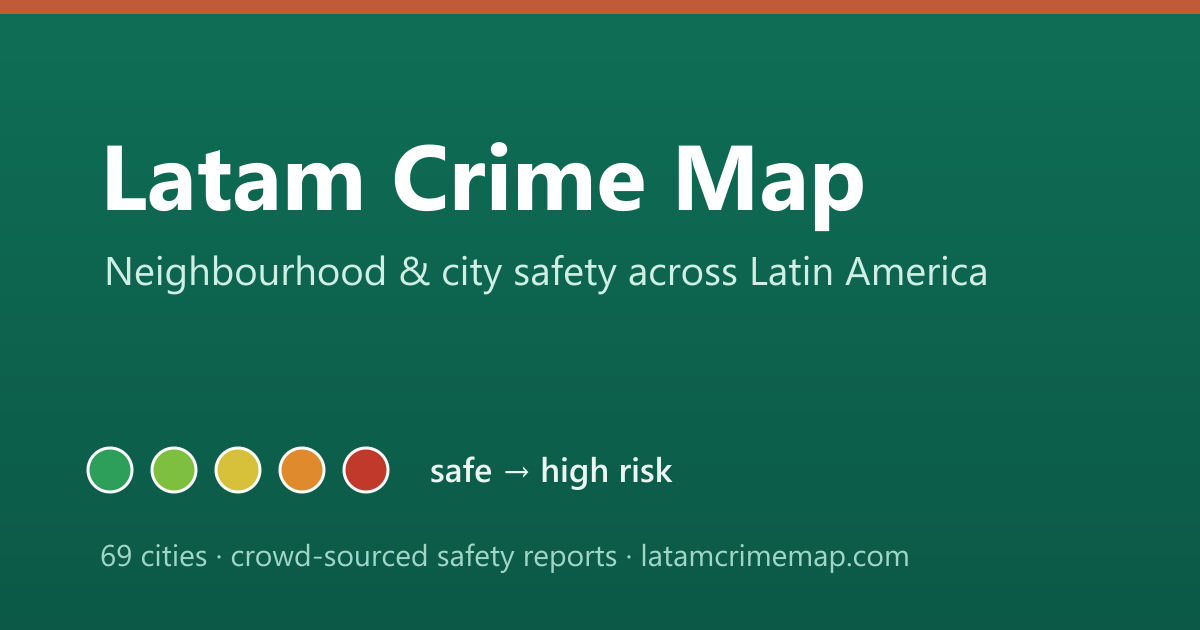
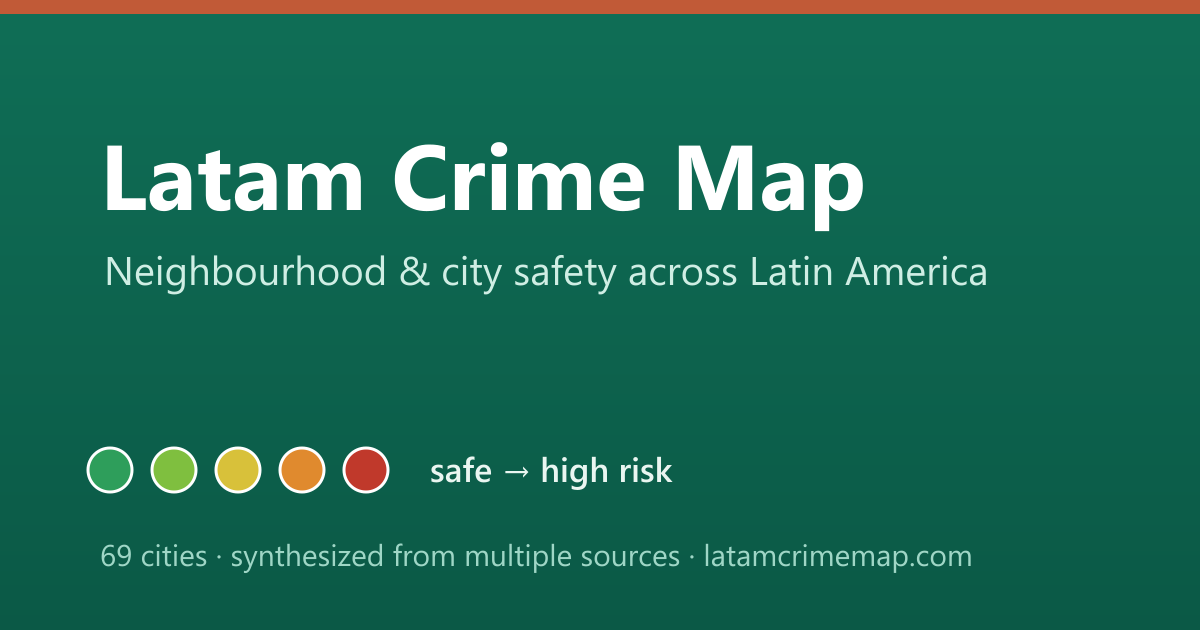
Share preview: "synthesized from multiple sources" instead of "crowd-sourced reports"
The crowd layer isn't live yet, so don't claim it. Reframe the OG/Twitter descriptions and the generic
share image to reflect what the map actually is — an editorial synthesis of multiple safety sources.

Changed region(s): [[0.185, 0.8746, 0.8017, 0.9048]]

diff --git a/404.html b/404.html
@@ -3,18 +3,18 @@
 <meta charset="utf-8"/><meta name="viewport" content="width=device-width, initial-scale=1"/>
 <meta name="darkreader-lock"/><meta name="color-scheme" content="dark"/>
 <title>Latam Crime Map</title>
-<meta name="description" content="Neighbourhood and city safety across Latin America — 69 cities on a green-to-red scale, with crowd-sourced reports."/>
+<meta name="description" content="Neighbourhood and city safety across Latin America — 69 cities on a green-to-red scale, synthesized from multiple safety sources."/>
 <link rel="canonical" href="https://latamcrimemap.com/"/>
 <meta property="og:type" content="website"/>
 <meta property="og:site_name" content="Latam Crime Map"/>
 <meta property="og:title" content="Latam Crime Map"/>
-<meta property="og:description" content="Neighbourhood and city safety across Latin America — 69 cities on a green-to-red scale, with crowd-sourced reports."/>
+<meta property="og:description" content="Neighbourhood and city safety across Latin America — 69 cities on a green-to-red scale, synthesized from multiple safety sources."/>
 <meta property="og:url" content="https://latamcrimemap.com/"/>
 <meta property="og:image" content="https://latamcrimemap.com/og-image.png"/>
 <meta property="og:image:width" content="1200"/><meta property="og:image:height" content="630"/>
 <meta name="twitter:card" content="summary_large_image"/>
 <meta name="twitter:title" content="Latam Crime Map"/>
-<meta name="twitter:description" content="Neighbourhood and city safety across Latin America — 69 cities on a green-to-red scale, with crowd-sourced reports."/>
+<meta name="twitter:description" content="Neighbourhood and city safety across Latin America — 69 cities on a green-to-red scale, synthesized from multiple safety sources."/>
 <meta name="twitter:image" content="https://latamcrimemap.com/og-image.png"/>
 <link rel="stylesheet" href="https://cdnjs.cloudflare.com/ajax/libs/leaflet/1.9.4/leaflet.min.css"/>
 <script src="https://cdnjs.cloudflare.com/ajax/libs/leaflet/1.9.4/leaflet.min.js"></script>

diff --git a/belohorizonte.html b/belohorizonte.html
@@ -3,18 +3,18 @@
 <meta charset="utf-8"/><meta name="viewport" content="width=device-width, initial-scale=1"/>
 <meta name="darkreader-lock"/><meta name="color-scheme" content="dark"/>
 <title>Belo Horizonte — Latam Crime Map</title>
-<meta name="description" content="Belo Horizonte: neighbourhood safety on a green-to-red scale, with crowd-sourced reports — Latam Crime Map."/>
+<meta name="description" content="Belo Horizonte: neighbourhood safety on a green-to-red scale, synthesized from multiple safety sources — Latam Crime Map."/>
 <link rel="canonical" href="https://latamcrimemap.com/belohorizonte"/>
 <meta property="og:type" content="website"/>
 <meta property="og:site_name" content="Latam Crime Map"/>
 <meta property="og:title" content="Belo Horizonte — Latam Crime Map"/>
-<meta property="og:description" content="Belo Horizonte: neighbourhood safety on a green-to-red scale, with crowd-sourced reports — Latam Crime Map."/>
+<meta property="og:description" content="Belo Horizonte: neighbourhood safety on a green-to-red scale, synthesized from multiple safety sources — Latam Crime Map."/>
 <meta property="og:url" content="https://latamcrimemap.com/belohorizonte"/>
 <meta property="og:image" content="https://latamcrimemap.com/share/belohorizonte.png"/>
 <meta property="og:image:width" content="1200"/><meta property="og:image:height" content="630"/>
 <meta name="twitter:card" content="summary_large_image"/>
 <meta name="twitter:title" content="Belo Horizonte — Latam Crime Map"/>
-<meta name="twitter:description" content="Belo Horizonte: neighbourhood safety on a green-to-red scale, with crowd-sourced reports — Latam Crime Map."/>
+<meta name="twitter:description" content="Belo Horizonte: neighbourhood safety on a green-to-red scale, synthesized from multiple safety sources — Latam Crime Map."/>
 <meta name="twitter:image" content="https://latamcrimemap.com/share/belohorizonte.png"/>
 <link rel="stylesheet" href="https://cdnjs.cloudflare.com/ajax/libs/leaflet/1.9.4/leaflet.min.css"/>
 <script src="https://cdnjs.cloudflare.com/ajax/libs/leaflet/1.9.4/leaflet.min.js"></script>

diff --git a/bogota.html b/bogota.html
@@ -3,18 +3,18 @@
 <meta charset="utf-8"/><meta name="viewport" content="width=device-width, initial-scale=1"/>
 <meta name="darkreader-lock"/><meta name="color-scheme" content="dark"/>
 <title>Bogotá — Latam Crime Map</title>
-<meta name="description" content="Bogotá: neighbourhood safety on a green-to-red scale, with crowd-sourced reports — Latam Crime Map."/>
+<meta name="description" content="Bogotá: neighbourhood safety on a green-to-red scale, synthesized from multiple safety sources — Latam Crime Map."/>
 <link rel="canonical" href="https://latamcrimemap.com/bogota"/>
 <meta property="og:type" content="website"/>
 <meta property="og:site_name" content="Latam Crime Map"/>
 <meta property="og:title" content="Bogotá — Latam Crime Map"/>
-<meta property="og:description" content="Bogotá: neighbourhood safety on a green-to-red scale, with crowd-sourced reports — Latam Crime Map."/>
+<meta property="og:description" content="Bogotá: neighbourhood safety on a green-to-red scale, synthesized from multiple safety sources — Latam Crime Map."/>
 <meta property="og:url" content="https://latamcrimemap.com/bogota"/>
 <meta property="og:image" content="https://latamcrimemap.com/share/bogota.png"/>
 <meta property="og:image:width" content="1200"/><meta property="og:image:height" content="630"/>
 <meta name="twitter:card" content="summary_large_image"/>
 <meta name="twitter:title" content="Bogotá — Latam Crime Map"/>
-<meta name="twitter:description" content="Bogotá: neighbourhood safety on a green-to-red scale, with crowd-sourced reports — Latam Crime Map."/>
+<meta name="twitter:description" content="Bogotá: neighbourhood safety on a green-to-red scale, synthesized from multiple safety sources — Latam Crime Map."/>
 <meta name="twitter:image" content="https://latamcrimemap.com/share/bogota.png"/>
 <link rel="stylesheet" href="https://cdnjs.cloudflare.com/ajax/libs/leaflet/1.9.4/leaflet.min.css"/>
 <script src="https://cdnjs.cloudflare.com/ajax/libs/leaflet/1.9.4/leaflet.min.js"></script>

diff --git a/buenos-aires.html b/buenos-aires.html
@@ -3,18 +3,18 @@
 <meta charset="utf-8"/><meta name="viewport" content="width=device-width, initial-scale=1"/>
 <meta name="darkreader-lock"/><meta name="color-scheme" content="dark"/>
 <title>Buenos Aires — Latam Crime Map</title>
-<meta name="description" content="Buenos Aires: neighbourhood safety on a green-to-red scale, with crowd-sourced reports — Latam Crime Map."/>
+<meta name="description" content="Buenos Aires: neighbourhood safety on a green-to-red scale, synthesized from multiple safety sources — Latam Crime Map."/>
 <link rel="canonical" href="https://latamcrimemap.com/buenos-aires"/>
 <meta property="og:type" content="website"/>
 <meta property="og:site_name" content="Latam Crime Map"/>
 <meta property="og:title" content="Buenos Aires — Latam Crime Map"/>
-<meta property="og:description" content="Buenos Aires: neighbourhood safety on a green-to-red scale, with crowd-sourced reports — Latam Crime Map."/>
+<meta property="og:description" content="Buenos Aires: neighbourhood safety on a green-to-red scale, synthesized from multiple safety sources — Latam Crime Map."/>
 <meta property="og:url" content="https://latamcrimemap.com/buenos-aires"/>
 <meta property="og:image" content="https://latamcrimemap.com/share/buenos-aires.png"/>
 <meta property="og:image:width" content="1200"/><meta property="og:image:height" content="630"/>
 <meta name="twitter:card" content="summary_large_image"/>
 <meta name="twitter:title" content="Buenos Aires — Latam Crime Map"/>
-<meta name="twitter:description" content="Buenos Aires: neighbourhood safety on a green-to-red scale, with crowd-sourced reports — Latam Crime Map."/>
+<meta name="twitter:description" content="Buenos Aires: neighbourhood safety on a green-to-red scale, synthesized from multiple safety sources — Latam Crime Map."/>
 <meta name="twitter:image" content="https://latamcrimemap.com/share/buenos-aires.png"/>
 <link rel="stylesheet" href="https://cdnjs.cloudflare.com/ajax/libs/leaflet/1.9.4/leaflet.min.css"/>
 <script src="https://cdnjs.cloudflare.com/ajax/libs/leaflet/1.9.4/leaflet.min.js"></script>

diff --git a/curitiba.html b/curitiba.html
@@ -3,18 +3,18 @@
 <meta charset="utf-8"/><meta name="viewport" content="width=device-width, initial-scale=1"/>
 <meta name="darkreader-lock"/><meta name="color-scheme" content="dark"/>
 <title>Curitiba — Latam Crime Map</title>
-<meta name="description" content="Curitiba: neighbourhood safety on a green-to-red scale, with crowd-sourced reports — Latam Crime Map."/>
+<meta name="description" content="Curitiba: neighbourhood safety on a green-to-red scale, synthesized from multiple safety sources — Latam Crime Map."/>
 <link rel="canonical" href="https://latamcrimemap.com/curitiba"/>
 <meta property="og:type" content="website"/>
 <meta property="og:site_name" content="Latam Crime Map"/>
 <meta property="og:title" content="Curitiba — Latam Crime Map"/>
-<meta property="og:description" content="Curitiba: neighbourhood safety on a green-to-red scale, with crowd-sourced reports — Latam Crime Map."/>
+<meta property="og:description" content="Curitiba: neighbourhood safety on a green-to-red scale, synthesized from multiple safety sources — Latam Crime Map."/>
 <meta property="og:url" content="https://latamcrimemap.com/curitiba"/>
 <meta property="og:image" content="https://latamcrimemap.com/share/curitiba.png"/>
 <meta property="og:image:width" content="1200"/><meta property="og:image:height" content="630"/>
 <meta name="twitter:card" content="summary_large_image"/>
 <meta name="twitter:title" content="Curitiba — Latam Crime Map"/>
-<meta name="twitter:description" content="Curitiba: neighbourhood safety on a green-to-red scale, with crowd-sourced reports — Latam Crime Map."/>
+<meta name="twitter:description" content="Curitiba: neighbourhood safety on a green-to-red scale, synthesized from multiple safety sources — Latam Crime Map."/>
 <meta name="twitter:image" content="https://latamcrimemap.com/share/curitiba.png"/>
 <link rel="stylesheet" href="https://cdnjs.cloudflare.com/ajax/libs/leaflet/1.9.4/leaflet.min.css"/>
 <script src="https://cdnjs.cloudflare.com/ajax/libs/leaflet/1.9.4/leaflet.min.js"></script>

diff --git a/fortaleza.html b/fortaleza.html
@@ -3,18 +3,18 @@
 <meta charset="utf-8"/><meta name="viewport" content="width=device-width, initial-scale=1"/>
 <meta name="darkreader-lock"/><meta name="color-scheme" content="dark"/>
 <title>Fortaleza — Latam Crime Map</title>
-<meta name="description" content="Fortaleza: neighbourhood safety on a green-to-red scale, with crowd-sourced reports — Latam Crime Map."/>
+<meta name="description" content="Fortaleza: neighbourhood safety on a green-to-red scale, synthesized from multiple safety sources — Latam Crime Map."/>
 <link rel="canonical" href="https://latamcrimemap.com/fortaleza"/>
 <meta property="og:type" content="website"/>
 <meta property="og:site_name" content="Latam Crime Map"/>
 <meta property="og:title" content="Fortaleza — Latam Crime Map"/>
-<meta property="og:description" content="Fortaleza: neighbourhood safety on a green-to-red scale, with crowd-sourced reports — Latam Crime Map."/>
+<meta property="og:description" content="Fortaleza: neighbourhood safety on a green-to-red scale, synthesized from multiple safety sources — Latam Crime Map."/>
 <meta property="og:url" content="https://latamcrimemap.com/fortaleza"/>
 <meta property="og:image" content="https://latamcrimemap.com/share/fortaleza.png"/>
 <meta property="og:image:width" content="1200"/><meta property="og:image:height" content="630"/>
 <meta name="twitter:card" content="summary_large_image"/>
 <meta name="twitter:title" content="Fortaleza — Latam Crime Map"/>
-<meta name="twitter:description" content="Fortaleza: neighbourhood safety on a green-to-red scale, with crowd-sourced reports — Latam Crime Map."/>
+<meta name="twitter:description" content="Fortaleza: neighbourhood safety on a green-to-red scale, synthesized from multiple safety sources — Latam Crime Map."/>
 <meta name="twitter:image" content="https://latamcrimemap.com/share/fortaleza.png"/>
 <link rel="stylesheet" href="https://cdnjs.cloudflare.com/ajax/libs/leaflet/1.9.4/leaflet.min.css"/>
 <script src="https://cdnjs.cloudflare.com/ajax/libs/leaflet/1.9.4/leaflet.min.js"></script>

diff --git a/guadalajara.html b/guadalajara.html
@@ -3,18 +3,18 @@
 <meta charset="utf-8"/><meta name="viewport" content="width=device-width, initial-scale=1"/>
 <meta name="darkreader-lock"/><meta name="color-scheme" content="dark"/>
 <title>Guadalajara — Latam Crime Map</title>
-<meta name="description" content="Guadalajara: neighbourhood safety on a green-to-red scale, with crowd-sourced reports — Latam Crime Map."/>
+<meta name="description" content="Guadalajara: neighbourhood safety on a green-to-red scale, synthesized from multiple safety sources — Latam Crime Map."/>
 <link rel="canonical" href="https://latamcrimemap.com/guadalajara"/>
 <meta property="og:type" content="website"/>
 <meta property="og:site_name" content="Latam Crime Map"/>
 <meta property="og:title" content="Guadalajara — Latam Crime Map"/>
-<meta property="og:description" content="Guadalajara: neighbourhood safety on a green-to-red scale, with crowd-sourced reports — Latam Crime Map."/>
+<meta property="og:description" content="Guadalajara: neighbourhood safety on a green-to-red scale, synthesized from multiple safety sources — Latam Crime Map."/>
 <meta property="og:url" content="https://latamcrimemap.com/guadalajara"/>
 <meta property="og:image" content="https://latamcrimemap.com/share/guadalajara.png"/>
 <meta property="og:image:width" content="1200"/><meta property="og:image:height" content="630"/>
 <meta name="twitter:card" content="summary_large_image"/>
 <meta name="twitter:title" content="Guadalajara — Latam Crime Map"/>
-<meta name="twitter:description" content="Guadalajara: neighbourhood safety on a green-to-red scale, with crowd-sourced reports — Latam Crime Map."/>
+<meta name="twitter:description" content="Guadalajara: neighbourhood safety on a green-to-red scale, synthesized from multiple safety sources — Latam Crime Map."/>
 <meta name="twitter:image" content="https://latamcrimemap.com/share/guadalajara.png"/>
 <link rel="stylesheet" href="https://cdnjs.cloudflare.com/ajax/libs/leaflet/1.9.4/leaflet.min.css"/>
 <script src="https://cdnjs.cloudflare.com/ajax/libs/leaflet/1.9.4/leaflet.min.js"></script>

diff --git a/guatemalacity.html b/guatemalacity.html
@@ -3,18 +3,18 @@
 <meta charset="utf-8"/><meta name="viewport" content="width=device-width, initial-scale=1"/>
 <meta name="darkreader-lock"/><meta name="color-scheme" content="dark"/>
 <title>Guatemala City — Latam Crime Map</title>
-<meta name="description" content="Guatemala City: neighbourhood safety on a green-to-red scale, with crowd-sourced reports — Latam Crime Map."/>
+<meta name="description" content="Guatemala City: neighbourhood safety on a green-to-red scale, synthesized from multiple safety sources — Latam Crime Map."/>
 <link rel="canonical" href="https://latamcrimemap.com/guatemalacity"/>
 <meta property="og:type" content="website"/>
 <meta property="og:site_name" content="Latam Crime Map"/>
 <meta property="og:title" content="Guatemala City — Latam Crime Map"/>
-<meta property="og:description" content="Guatemala City: neighbourhood safety on a green-to-red scale, with crowd-sourced reports — Latam Crime Map."/>
+<meta property="og:description" content="Guatemala City: neighbourhood safety on a green-to-red scale, synthesized from multiple safety sources — Latam Crime Map."/>
 <meta property="og:url" content="https://latamcrimemap.com/guatemalacity"/>
 <meta property="og:image" content="https://latamcrimemap.com/share/guatemalacity.png"/>
 <meta property="og:image:width" content="1200"/><meta property="og:image:height" content="630"/>
 <meta name="twitter:card" content="summary_large_image"/>
 <meta name="twitter:title" content="Guatemala City — Latam Crime Map"/>
-<meta name="twitter:description" content="Guatemala City: neighbourhood safety on a green-to-red scale, with crowd-sourced reports — Latam Crime Map."/>
+<meta name="twitter:description" content="Guatemala City: neighbourhood safety on a green-to-red scale, synthesized from multiple safety sources — Latam Crime Map."/>
 <meta name="twitter:image" content="https://latamcrimemap.com/share/guatemalacity.png"/>
 <link rel="stylesheet" href="https://cdnjs.cloudflare.com/ajax/libs/leaflet/1.9.4/leaflet.min.css"/>
 <script src="https://cdnjs.cloudflare.com/ajax/libs/leaflet/1.9.4/leaflet.min.js"></script>

diff --git a/havana.html b/havana.html
@@ -3,18 +3,18 @@
 <meta charset="utf-8"/><meta name="viewport" content="width=device-width, initial-scale=1"/>
 <meta name="darkreader-lock"/><meta name="color-scheme" content="dark"/>
 <title>Havana — Latam Crime Map</title>
-<meta name="description" content="Havana: neighbourhood safety on a green-to-red scale, with crowd-sourced reports — Latam Crime Map."/>
+<meta name="description" content="Havana: neighbourhood safety on a green-to-red scale, synthesized from multiple safety sources — Latam Crime Map."/>
 <link rel="canonical" href="https://latamcrimemap.com/havana"/>
 <meta property="og:type" content="website"/>
 <meta property="og:site_name" content="Latam Crime Map"/>
 <meta property="og:title" content="Havana — Latam Crime Map"/>
-<meta property="og:description" content="Havana: neighbourhood safety on a green-to-red scale, with crowd-sourced reports — Latam Crime Map."/>
+<meta property="og:description" content="Havana: neighbourhood safety on a green-to-red scale, synthesized from multiple safety sources — Latam Crime Map."/>
 <meta property="og:url" content="https://latamcrimemap.com/havana"/>
 <meta property="og:image" content="https://latamcrimemap.com/share/havana.png"/>
 <meta property="og:image:width" content="1200"/><meta property="og:image:height" content="630"/>
 <meta name="twitter:card" content="summary_large_image"/>
 <meta name="twitter:title" content="Havana — Latam Crime Map"/>
-<meta name="twitter:description" content="Havana: neighbourhood safety on a green-to-red scale, with crowd-sourced reports — Latam Crime Map."/>
+<meta name="twitter:description" content="Havana: neighbourhood safety on a green-to-red scale, synthesized from multiple safety sources — Latam Crime Map."/>
 <meta name="twitter:image" content="https://latamcrimemap.com/share/havana.png"/>
 <link rel="stylesheet" href="https://cdnjs.cloudflare.com/ajax/libs/leaflet/1.9.4/leaflet.min.css"/>
 <script src="https://cdnjs.cloudflare.com/ajax/libs/leaflet/1.9.4/leaflet.min.js"></script>

diff --git a/index.html b/index.html
@@ -3,18 +3,18 @@
 <meta charset="utf-8"/><meta name="viewport" content="width=device-width, initial-scale=1"/>
 <meta name="darkreader-lock"/><meta name="color-scheme" content="dark"/>
 <title>Latam Crime Map</title>
-<meta name="description" content="Neighbourhood and city safety across Latin America — 69 cities on a green-to-red scale, with crowd-sourced reports."/>
+<meta name="description" content="Neighbourhood and city safety across Latin America — 69 cities on a green-to-red scale, synthesized from multiple safety sources."/>
 <link rel="canonical" href="https://latamcrimemap.com/"/>
 <meta property="og:type" content="website"/>
 <meta property="og:site_name" content="Latam Crime Map"/>
 <meta property="og:title" content="Latam Crime Map"/>
-<meta property="og:description" content="Neighbourhood and city safety across Latin America — 69 cities on a green-to-red scale, with crowd-sourced reports."/>
+<meta property="og:description" content="Neighbourhood and city safety across Latin America — 69 cities on a green-to-red scale, synthesized from multiple safety sources."/>
 <meta property="og:url" content="https://latamcrimemap.com/"/>
 <meta property="og:image" content="https://latamcrimemap.com/og-image.png"/>
 <meta property="og:image:width" content="1200"/><meta property="og:image:height" content="630"/>
 <meta name="twitter:card" content="summary_large_image"/>
 <meta name="twitter:title" content="Latam Crime Map"/>
-<meta name="twitter:description" content="Neighbourhood and city safety across Latin America — 69 cities on a green-to-red scale, with crowd-sourced reports."/>
+<meta name="twitter:description" content="Neighbourhood and city safety across Latin America — 69 cities on a green-to-red scale, synthesized from multiple safety sources."/>
 <meta name="twitter:image" content="https://latamcrimemap.com/og-image.png"/>
 <link rel="stylesheet" href="https://cdnjs.cloudflare.com/ajax/libs/leaflet/1.9.4/leaflet.min.css"/>
 <script src="https://cdnjs.cloudflare.com/ajax/libs/leaflet/1.9.4/leaflet.min.js"></script>

diff --git a/lima.html b/lima.html
@@ -3,18 +3,18 @@
 <meta charset="utf-8"/><meta name="viewport" content="width=device-width, initial-scale=1"/>
 <meta name="darkreader-lock"/><meta name="color-scheme" content="dark"/>
 <title>Lima — Latam Crime Map</title>
-<meta name="description" content="Lima: neighbourhood safety on a green-to-red scale, with crowd-sourced reports — Latam Crime Map."/>
+<meta name="description" content="Lima: neighbourhood safety on a green-to-red scale, synthesized from multiple safety sources — Latam Crime Map."/>
 <link rel="canonical" href="https://latamcrimemap.com/lima"/>
 <meta property="og:type" content="website"/>
 <meta property="og:site_name" content="Latam Crime Map"/>
 <meta property="og:title" content="Lima — Latam Crime Map"/>
-<meta property="og:description" content="Lima: neighbourhood safety on a green-to-red scale, with crowd-sourced reports — Latam Crime Map."/>
+<meta property="og:description" content="Lima: neighbourhood safety on a green-to-red scale, synthesized from multiple safety sources — Latam Crime Map."/>
 <meta property="og:url" content="https://latamcrimemap.com/lima"/>
 <meta property="og:image" content="https://latamcrimemap.com/share/lima.png"/>
 <meta property="og:image:width" content="1200"/><meta property="og:image:height" content="630"/>
 <meta name="twitter:card" content="summary_large_image"/>
 <meta name="twitter:title" content="Lima — Latam Crime Map"/>
-<meta name="twitter:description" content="Lima: neighbourhood safety on a green-to-red scale, with crowd-sourced reports — Latam Crime Map."/>
+<meta name="twitter:description" content="Lima: neighbourhood safety on a green-to-red scale, synthesized from multiple safety sources — Latam Crime Map."/>
 <meta name="twitter:image" content="https://latamcrimemap.com/share/lima.png"/>
 <link rel="stylesheet" href="https://cdnjs.cloudflare.com/ajax/libs/leaflet/1.9.4/leaflet.min.css"/>
 <script src="https://cdnjs.cloudflare.com/ajax/libs/leaflet/1.9.4/leaflet.min.js"></script>

diff --git a/medellin.html b/medellin.html
@@ -3,18 +3,18 @@
 <meta charset="utf-8"/><meta name="viewport" content="width=device-width, initial-scale=1"/>
 <meta name="darkreader-lock"/><meta name="color-scheme" content="dark"/>
 <title>Medellín — Latam Crime Map</title>
-<meta name="description" content="Medellín: neighbourhood safety on a green-to-red scale, with crowd-sourced reports — Latam Crime Map."/>
+<meta name="description" content="Medellín: neighbourhood safety on a green-to-red scale, synthesized from multiple safety sources — Latam Crime Map."/>
 <link rel="canonical" href="https://latamcrimemap.com/medellin"/>
 <meta property="og:type" content="website"/>
 <meta property="og:site_name" content="Latam Crime Map"/>
 <meta property="og:title" content="Medellín — Latam Crime Map"/>
-<meta property="og:description" content="Medellín: neighbourhood safety on a green-to-red scale, with crowd-sourced reports — Latam Crime Map."/>
+<meta property="og:description" content="Medellín: neighbourhood safety on a green-to-red scale, synthesized from multiple safety sources — Latam Crime Map."/>
 <meta property="og:url" content="https://latamcrimemap.com/medellin"/>
 <meta property="og:image" content="https://latamcrimemap.com/share/medellin.png"/>
 <meta property="og:image:width" content="1200"/><meta property="og:image:height" content="630"/>
 <meta name="twitter:card" content="summary_large_image"/>
 <meta name="twitter:title" content="Medellín — Latam Crime Map"/>
-<meta name="twitter:description" content="Medellín: neighbourhood safety on a green-to-red scale, with crowd-sourced reports — Latam Crime Map."/>
+<meta name="twitter:description" content="Medellín: neighbourhood safety on a green-to-red scale, synthesized from multiple safety sources — Latam Crime Map."/>
 <meta name="twitter:image" content="https://latamcrimemap.com/share/medellin.png"/>
 <link rel="stylesheet" href="https://cdnjs.cloudflare.com/ajax/libs/leaflet/1.9.4/leaflet.min.css"/>
 <script src="https://cdnjs.cloudflare.com/ajax/libs/leaflet/1.9.4/leaflet.min.js"></script>